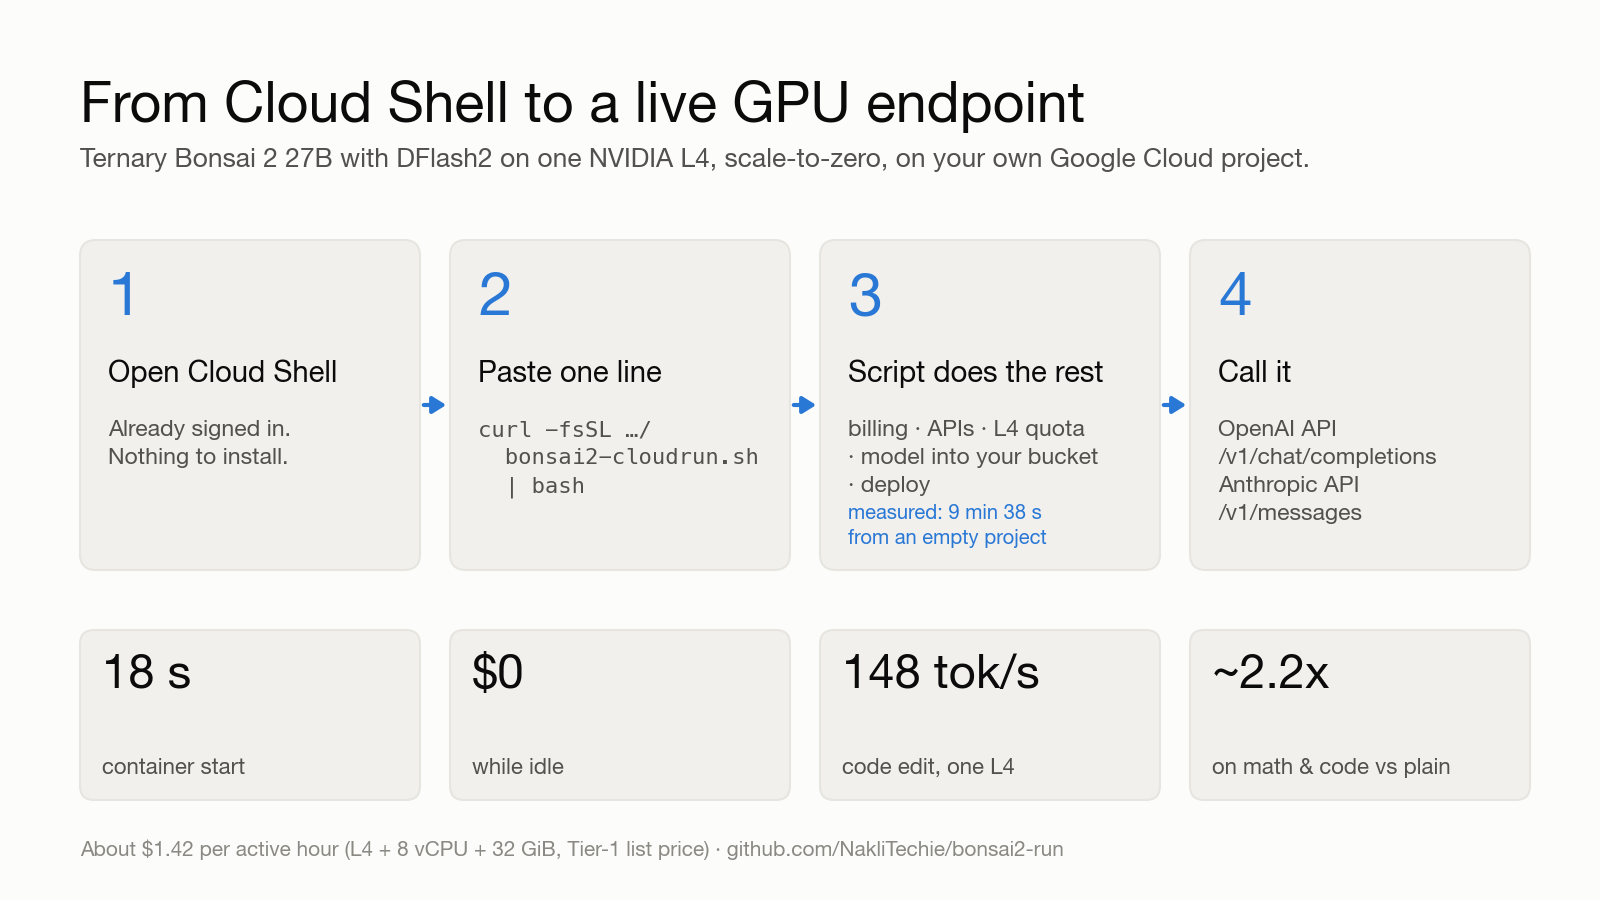
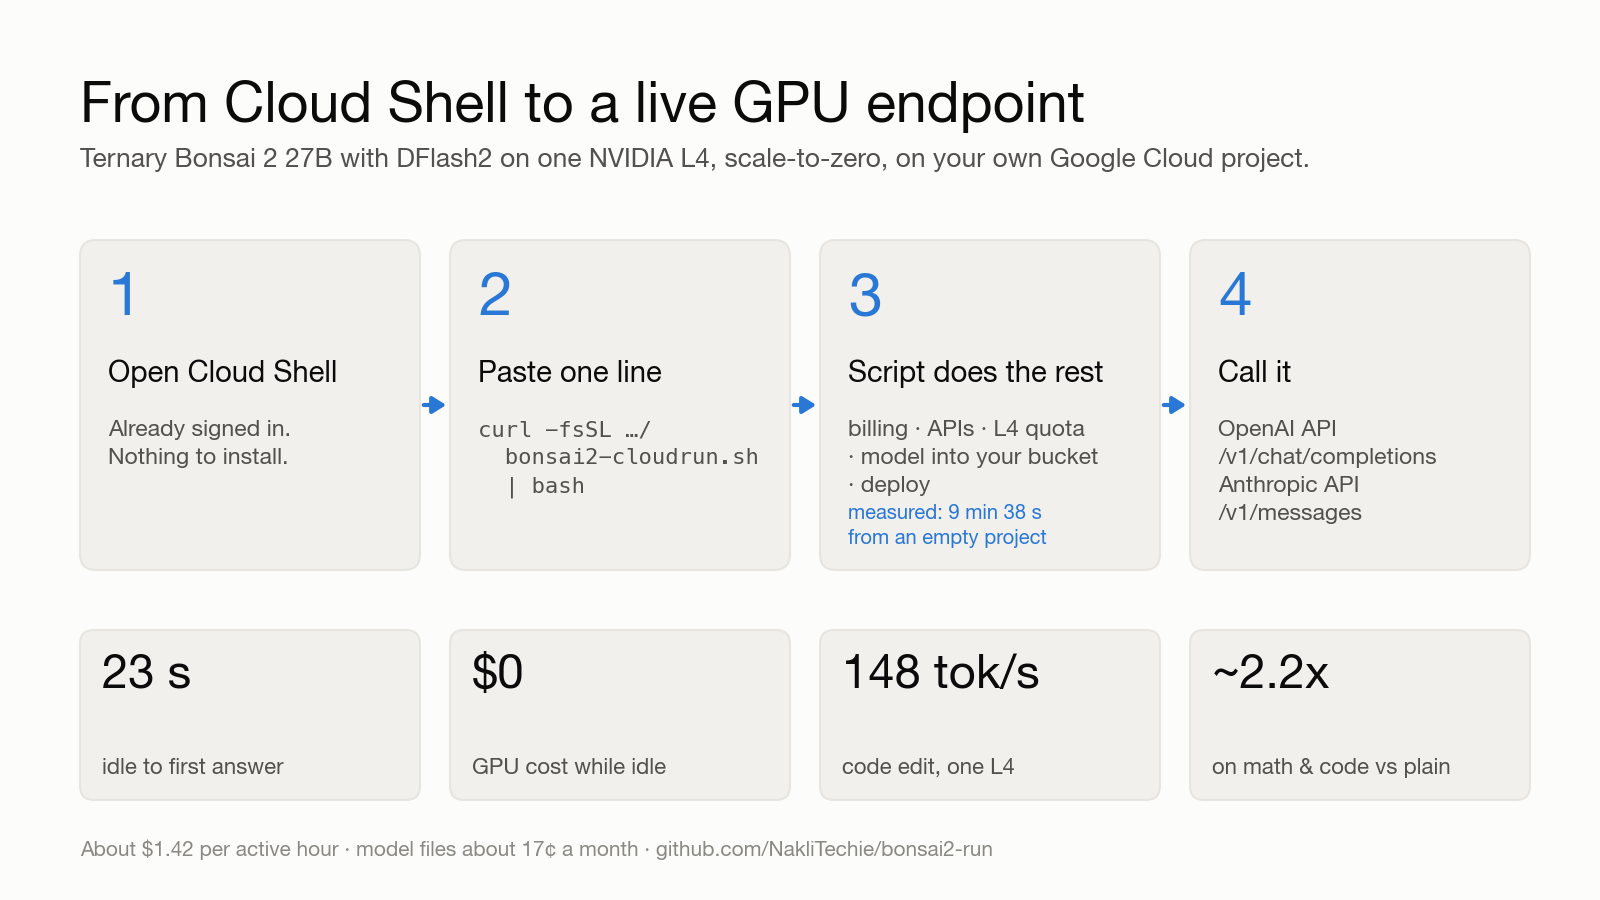
Creatives: 23 s idle-to-first-answer, $0 is GPU-only, storage ~17c/month on launch image

diff --git a/scripts/marketing.py b/scripts/marketing.py
@@ -14,8 +14,8 @@ out = sys.argv[1] if len(sys.argv) > 1 else "marketing"
 os.makedirs(out, exist_ok=True)
 SURF, INK, INK2, MUTED, LINE, BLUE, TILE = "#fcfcfb", "#0b0b0b", "#52514e", "#8a8983", "#e6e5e0", "#2a78d6", "#f1f0ec"
 plt.rcParams.update({"font.family": "Helvetica Neue", "text.color": INK})
-STATS = [("9 min 38 s", "new project to live URL"), ("18 s", "container start"),
-         ("$0", "while idle"), ("148 tok/s", "code edit, one L4")]
+STATS = [("9 min 38 s", "new project to live URL"), ("23 s", "idle to first answer"),
+         ("$0", "GPU cost while idle"), ("148 tok/s", "code edit, one L4")]
 
 
 PAIRS = []   # (text artist, (x0, y0, x1, y1) box in data coords, name) checked before saving
@@ -51,7 +51,7 @@ fig, ax = canvas(1280, 640)
 ax.add_patch(FancyBboxPatch((0, 0), 16, 640, boxstyle="square,pad=0", fc=BLUE, ec="none"))
 ax.text(70, 560, "bonsai2-run", fontsize=30, color=BLUE, fontweight="bold", va="top")
 ax.text(70, 490, "A 27B model on one Cloud Run GPU.", fontsize=46, fontweight="bold", va="top")
-ax.text(70, 418, "$0 when nobody is using it.", fontsize=46, fontweight="bold", va="top", color=BLUE)
+ax.text(70, 418, "No GPU bill when nobody uses it.", fontsize=46, fontweight="bold", va="top", color=BLUE)
 for i, (big, small) in enumerate(STATS):
     tile(ax, 70 + i * 290, 120, 270, 150, big, small, 32, 16)
 ax.text(70, 62, "One script from Cloud Shell · Ternary Bonsai 2 27B + DFlash2 · OpenAI + Anthropic APIs · MIT",
@@ -84,7 +84,7 @@ PAIRS.append((ax.text(80 + 2 * 370 + 28, 352, "measured: 9 min 38 s\nfrom an emp
                       va="bottom", fontweight="bold", linespacing=1.4), (80 + 2 * 370, 330, 80 + 2 * 370 + 340, 660), "step 3 note"))
 for i, (big, small) in enumerate(STATS[1:] + [("~2.2x", "on math & code vs plain")]):
     tile(ax, 80 + i * 370, 100, 340, 170, big, small, 34, 16)
-ax.text(80, 50, "About $1.42 per active hour (L4 + 8 vCPU + 32 GiB, Tier-1 list price) · github.com/NakliTechie/bonsai2-run",
+ax.text(80, 50, "About $1.42 per active hour · model files about 17¢ a month · github.com/NakliTechie/bonsai2-run",
         fontsize=15, color=MUTED, va="center")
 for t in ax.texts:
     PAIRS.append((t, (0, 0, 1600, 900), "launch canvas"))
